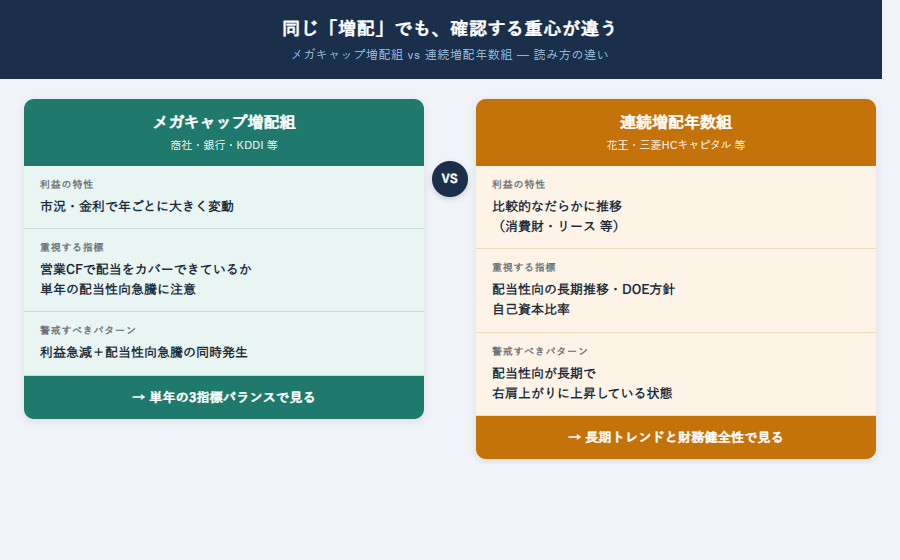
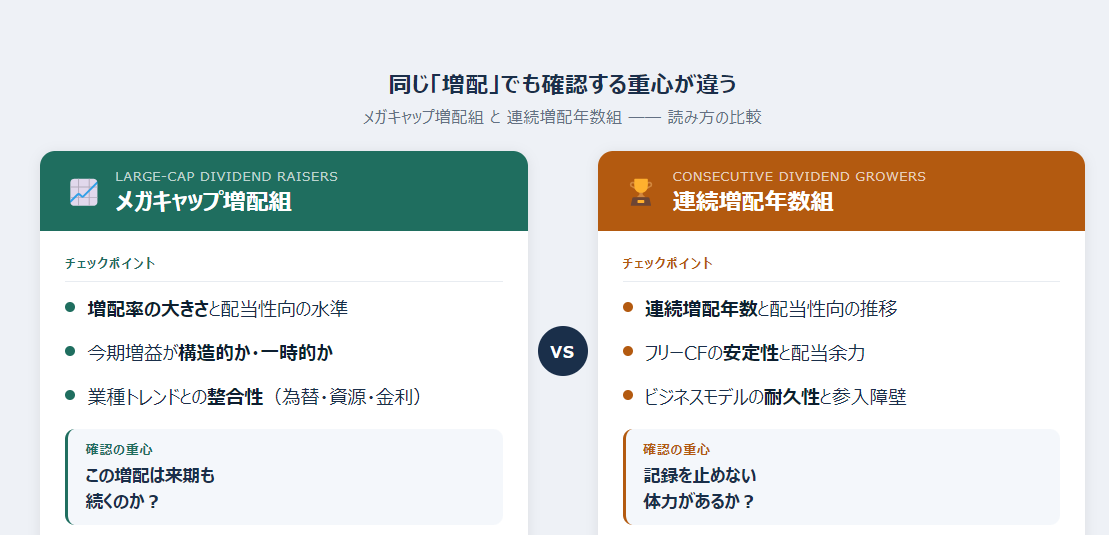
fix(assets): improve megacap-vs-consecutive illustration readability (v3)

diff --git a/static/images/_tmp_megacap-comparison-v3.html b/static/images/_tmp_megacap-comparison-v3.html
@@ -1,0 +1,263 @@
+<!DOCTYPE html>
+<html lang="ja">
+<head>
+<meta charset="UTF-8">
+<style>
+  * { margin: 0; padding: 0; box-sizing: border-box; }
+  body {
+    font-family: "Meiryo UI", "Meiryo", "Yu Gothic UI", "Yu Gothic", "MS PGothic", sans-serif;
+    background: #eef1f6;
+    width: 900px;
+    height: 520px;
+    display: flex;
+    flex-direction: column;
+    justify-content: center;
+    align-items: center;
+    padding: 28px 32px 24px;
+  }
+
+  /* ===== タイトル ===== */
+  .chart-title {
+    font-size: 18px;
+    font-weight: 700;
+    color: #1a2f4a;
+    letter-spacing: 0.04em;
+    margin-bottom: 6px;
+    text-align: center;
+  }
+  .chart-sub {
+    font-size: 13px;
+    color: #637083;
+    margin-bottom: 20px;
+    text-align: center;
+    letter-spacing: 0.02em;
+  }
+
+  /* ===== 2カラムレイアウト ===== */
+  .columns {
+    display: grid;
+    grid-template-columns: 1fr 56px 1fr;
+    gap: 0;
+    width: 100%;
+    align-items: stretch;
+  }
+
+  /* ===== 個別カード ===== */
+  .col {
+    background: #fff;
+    border-radius: 12px;
+    overflow: hidden;
+    box-shadow: 0 2px 10px rgba(0,0,0,0.08);
+  }
+
+  .col-header {
+    padding: 14px 20px;
+    display: flex;
+    align-items: center;
+    gap: 10px;
+  }
+  .col-left .col-header  { background: #1f6e5f; }
+  .col-right .col-header { background: #b35a10; }
+
+  .col-header-icon {
+    font-size: 22px;
+    line-height: 1;
+  }
+  .col-header-text {
+    display: flex;
+    flex-direction: column;
+    gap: 2px;
+  }
+  .col-header-en {
+    font-size: 10px;
+    color: rgba(255,255,255,0.7);
+    letter-spacing: 0.08em;
+    font-weight: 500;
+  }
+  .col-header-ja {
+    font-size: 18px;
+    font-weight: 700;
+    color: #fff;
+    letter-spacing: 0.02em;
+    line-height: 1.2;
+  }
+
+  .col-body {
+    padding: 18px 20px 20px;
+  }
+
+  .col-label {
+    font-size: 10.5px;
+    font-weight: 700;
+    letter-spacing: 0.1em;
+    text-transform: uppercase;
+    margin-bottom: 10px;
+    padding-bottom: 8px;
+    border-bottom: 1px solid #e8ecf1;
+  }
+  .col-left  .col-label { color: #1f6e5f; }
+  .col-right .col-label { color: #b35a10; }
+
+  .item {
+    display: flex;
+    align-items: flex-start;
+    gap: 10px;
+    margin-bottom: 12px;
+  }
+  .item:last-child { margin-bottom: 0; }
+
+  .item-dot {
+    width: 8px;
+    height: 8px;
+    border-radius: 50%;
+    margin-top: 6px;
+    flex-shrink: 0;
+  }
+  .col-left  .item-dot { background: #1f6e5f; }
+  .col-right .item-dot { background: #b35a10; }
+
+  .item-text {
+    font-size: 15px;
+    color: #1a2f4a;
+    line-height: 1.55;
+    font-weight: 400;
+  }
+  .item-text strong {
+    font-weight: 700;
+    color: #0d1f30;
+  }
+
+  .col-emphasis {
+    background: #f4f7fb;
+    border-radius: 8px;
+    padding: 10px 14px;
+    margin-top: 14px;
+    border-left: 3px solid;
+  }
+  .col-left  .col-emphasis { border-color: #1f6e5f; }
+  .col-right .col-emphasis { border-color: #b35a10; }
+
+  .col-emphasis-label {
+    font-size: 10px;
+    font-weight: 700;
+    letter-spacing: 0.1em;
+    margin-bottom: 4px;
+  }
+  .col-left  .col-emphasis-label { color: #1f6e5f; }
+  .col-right .col-emphasis-label { color: #b35a10; }
+
+  .col-emphasis-text {
+    font-size: 14px;
+    color: #1a2f4a;
+    font-weight: 700;
+    line-height: 1.45;
+  }
+
+  /* ===== VS バッジ ===== */
+  .vs-wrap {
+    display: flex;
+    align-items: center;
+    justify-content: center;
+  }
+  .vs-badge {
+    width: 40px;
+    height: 40px;
+    background: #1a2f4a;
+    border-radius: 50%;
+    display: flex;
+    align-items: center;
+    justify-content: center;
+    font-size: 13px;
+    font-weight: 800;
+    color: #fff;
+    letter-spacing: 0.05em;
+  }
+
+  /* ===== 凡例 ===== */
+  .footer-note {
+    margin-top: 14px;
+    font-size: 11px;
+    color: #8a96a3;
+    text-align: center;
+    letter-spacing: 0.02em;
+  }
+</style>
+</head>
+<body>
+
+<div class="chart-title">同じ「増配」でも確認する重心が違う</div>
+<div class="chart-sub">メガキャップ増配組 と 連続増配年数組 ── 読み方の比較</div>
+
+<div class="columns">
+
+  <!-- 左：メガキャップ増配組 -->
+  <div class="col col-left">
+    <div class="col-header">
+      <span class="col-header-icon">📈</span>
+      <div class="col-header-text">
+        <span class="col-header-en">LARGE-CAP DIVIDEND RAISERS</span>
+        <span class="col-header-ja">メガキャップ増配組</span>
+      </div>
+    </div>
+    <div class="col-body">
+      <div class="col-label">チェックポイント</div>
+      <div class="item">
+        <div class="item-dot"></div>
+        <div class="item-text"><strong>増配率の大きさ</strong>と配当性向の水準</div>
+      </div>
+      <div class="item">
+        <div class="item-dot"></div>
+        <div class="item-text">今期増益が<strong>構造的か・一時的か</strong></div>
+      </div>
+      <div class="item">
+        <div class="item-dot"></div>
+        <div class="item-text">業種トレンドとの<strong>整合性</strong>（為替・資源・金利）</div>
+      </div>
+      <div class="col-emphasis">
+        <div class="col-emphasis-label">確認の重心</div>
+        <div class="col-emphasis-text">この増配は来期も<br>続くのか？</div>
+      </div>
+    </div>
+  </div>
+
+  <!-- VS -->
+  <div class="vs-wrap">
+    <div class="vs-badge">VS</div>
+  </div>
+
+  <!-- 右：連続増配年数組 -->
+  <div class="col col-right">
+    <div class="col-header">
+      <span class="col-header-icon">🏆</span>
+      <div class="col-header-text">
+        <span class="col-header-en">CONSECUTIVE DIVIDEND GROWERS</span>
+        <span class="col-header-ja">連続増配年数組</span>
+      </div>
+    </div>
+    <div class="col-body">
+      <div class="col-label">チェックポイント</div>
+      <div class="item">
+        <div class="item-dot"></div>
+        <div class="item-text"><strong>連続増配年数</strong>と配当性向の推移</div>
+      </div>
+      <div class="item">
+        <div class="item-dot"></div>
+        <div class="item-text">フリーCFの<strong>安定性</strong>と配当余力</div>
+      </div>
+      <div class="item">
+        <div class="item-dot"></div>
+        <div class="item-text">ビジネスモデルの<strong>耐久性</strong>と参入障壁</div>
+      </div>
+      <div class="col-emphasis">
+        <div class="col-emphasis-label">確認の重心</div>
+        <div class="col-emphasis-text">記録を止めない<br>体力があるか？</div>
+      </div>
+    </div>
+  </div>
+
+</div>
+
+<div class="footer-note">finlab-se.com ／ 金融エンジニアの資産運用実験室</div>
+
+</body>
+</html>
